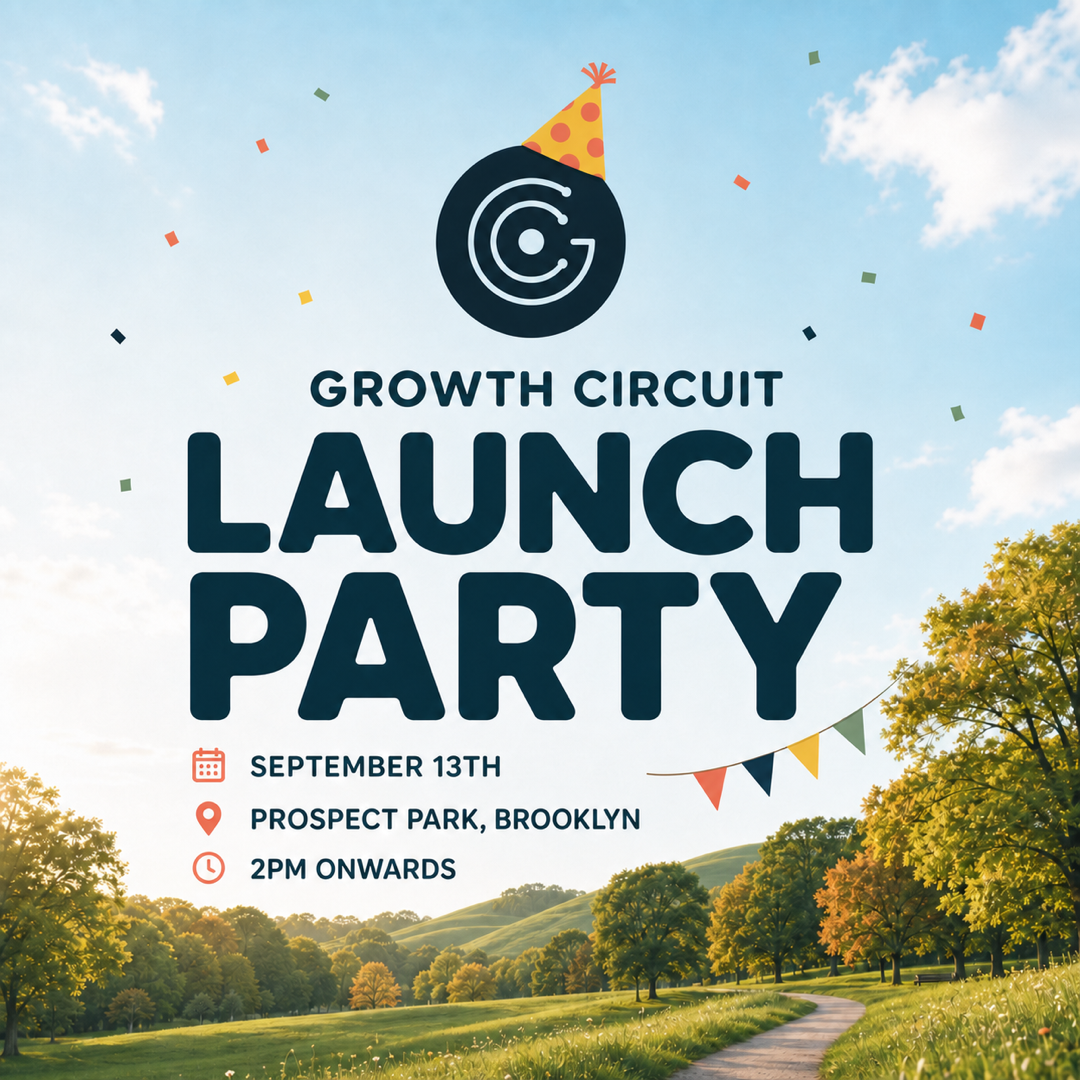
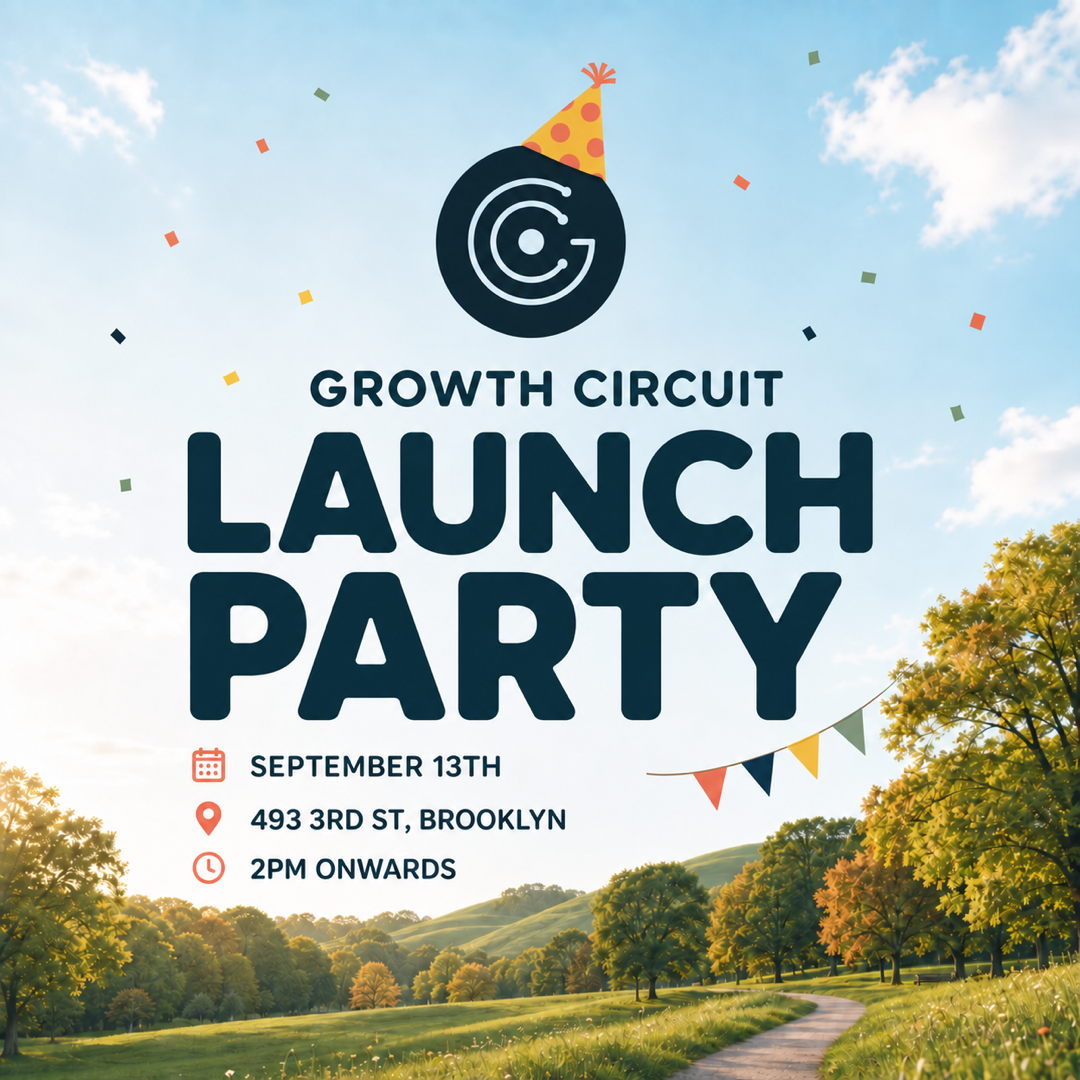
fix(events): update launch party address

diff --git a/src/data/events.ts b/src/data/events.ts
@@ -20,12 +20,12 @@ export const growthCircuitEvents: GrowthCircuitEvent[] = [
     dateLabel: "Sunday, September 13, 2026",
     dateTime: "2026-09-13T14:00:00-04:00",
     timeLabel: "2:00 to 4:00pm ET",
-    location: "Prospect Park, Brooklyn",
-    locationDetail: "Near 95 Prospect Park West",
+    location: "493 3rd St, Brooklyn",
+    locationDetail: "",
     description: "A casual afternoon with balloons, food, and drinks. Bring yourself, bring friends, and something to eat or drink if you want.",
     partifulUrl: "https://partiful.com/e/d93jqKwACf819w164lmr",
     image: "/growth-circuit-launch-party-2026-square.png",
-    imageAlt: "Growth Circuit Launch Party in Prospect Park on September 13",
+    imageAlt: "Growth Circuit Launch Party at 493 3rd St in Brooklyn on September 13",
     status: "upcoming",
   },
 ];
